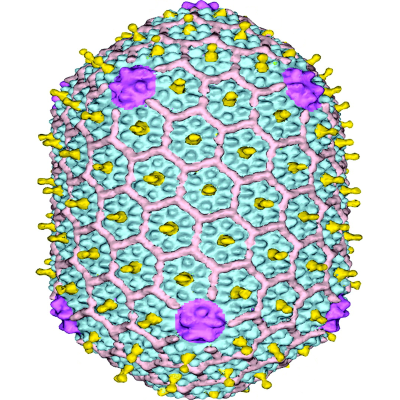
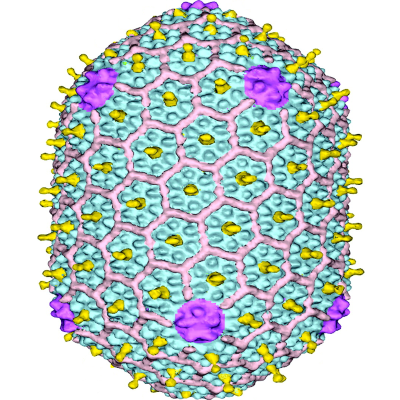
irreg quaternions corrected

diff --git a/Data/youtube story.js b/Data/youtube story.js
@@ -20,39 +20,42 @@ function Update_story()
 {
 //	console.log( our_CurrentTime );
 	
+	//if you skip to a time, then the thing might not be in the state to demonstrate precisely what you want. And that is ok.
+	
 	if(our_CurrentTime >= 21*60+14)
 		if( !EndingMusic.isPlaying)
 			EndingMusic.play();
 	
-	//first part of this function is all based on current state, which you don't have at the very start
-	if(Storypage !== -1)
+	if(Storypage !== -1) //first part of this function is all based on current state, which you don't have at the very start
 	{
+		if( Story_states[Storypage].enforced_irreg_quaternion.x !== 5 && IrregButton.capsidopen === 0 ) //we want you either going towards closed or closed
+		{
+			//we want the user to
+			var flat_quat = new THREE.Quaternion();
+			THREE.Quaternion.slerp( Story_states[Storypage].enforced_irreg_quaternion, flat_quat, varyingsurface.quaternion, capsidopenness );
+			for( var i = 0; i < varyingsurface_cylinders.length; i++)
+				varyingsurface_cylinders[i].quaternion.copy(varyingsurface.quaternion);
+			for( var i = 0; i < varyingsurface_spheres.length; i++)
+				varyingsurface_spheres[i].quaternion.copy(varyingsurface.quaternion);
+			
+			if(capsidopenness === 0) //if you've done your job in this situation, we don't need you anymore.
+				Story_states[Storypage].enforced_irreg_quaternion.set(5,5,5,5);
+			
+			varyingsurface.updateMatrixWorld();
+			
+			//still have problems: the jerk into place of the initial thing, the fact that it doesn't seem to work for phi29
+		}
+		
+		
 		if( Story_states[Storypage].prevent_playing )
 			if(ytplayer.getPlayerState() === 1)// 1 means playing,not allowed (although maybe some people like to have order designated for them?)
 				ytplayer.pauseVideo();
 		
 		if( Story_states[Storypage].unpause_on_vertex_knowledge && theyknowyoucanchangevertices && !isMouseDown )
 			IrregButton.capsidopen = 0;
+		
 		if( Story_states[Storypage].unpause_on_vertex_knowledge && capsidopenness === 0 )
-		{
 			ytplayer.playVideo();
-			console.log("unpausing on vertex knowledge");
-		}
-		
-		for(var i = 0; i < wedges.length; i++)
-			wedges[i].visible = Story_states[Storypage].wedges_visible;
-		
-		if(Story_states[Storypage].close_up_badly)
-			minimum_angle_crapifier = 0.965;
-		else
-			minimum_angle_crapifier = 1;
-		
-		if( Story_states[Storypage].CK_scale !== 666 )
-		{
-			//what if they get it before you've paused?
-			LatticeScale = Story_states[Storypage].CK_scale;
-			ytplayer.playVideo();
-		}
 		
 		if( Story_states[Storypage].unpause_on_rotation_knowledge && rotation_understanding >= 2 && !isMouseDown )
 		{
@@ -119,7 +122,20 @@ function Update_story()
 			console.error("no story state found for current time, which is ", our_CurrentTime)
 	}
 	
+	//everything below here only happens once, at the start of the chapter.
+	
 	surface.material.color.copy( Story_states[i].CK_surface_color );
+	
+	if( Story_states[Storypage].CK_scale !== 666 )
+		LatticeScale = Story_states[Storypage].CK_scale;
+	
+	if(Story_states[Storypage].close_up_badly)
+		minimum_angle_crapifier = 0.965;
+	else
+		minimum_angle_crapifier = 1;
+	
+	for(var i = 0; i < wedges.length; i++)
+		wedges[i].visible = Story_states[Storypage].wedges_visible;
 	
 	if( Story_states[Storypage].enforced_CK_quaternion.x !== 5 )
 	{
@@ -221,6 +237,7 @@ function init_story()
 		enforced_irreg_state: -1,
 		
 		enforced_CK_quaternion: new THREE.Quaternion(5,5,5,5),
+		enforced_irreg_quaternion: new THREE.Quaternion(5,5,5,5),
 		
 		CK_surface_color: new THREE.Color( 0.11764705882352941, 0.9882352941176471, 0.9529411764705882 ),
 		pentamers_color: new THREE.Color( 147/255,0,8/255 ),
@@ -469,16 +486,23 @@ function init_story()
 	
 	ns = default_clone_story_state(0,585.3); //open irreg then (pause)
 	ns.irreg_open = 1;
+	ns.enforced_irreg_quaternion.set( -0.7096985308398929, 0.0742111650138679, 0.07616885252857324, 0.6964330580574571 );
+	Story_states.push(ns);
+	
+	ns = default_clone_story_state(0,586); //this is here so we can enforce quaternion during wrap-up during pause
 	ns.pause_at_end = 1;
 	ns.unpause_on_vertex_knowledge = 1;
+	ns.enforced_irreg_quaternion.set( -0.7096985308398929, 0.0742111650138679, 0.07616885252857324, 0.6964330580574571 );
 	Story_states.push(ns);
 	
 	ns = default_clone_story_state(0,590.2); //advice which we skip for now TODO
 	ns.go_to_time = 596 + 0.0001;
 	ns.pause_at_end = 1;
+	ns.enforced_irreg_quaternion.set( -0.7096985308398929, 0.0742111650138679, 0.07616885252857324, 0.6964330580574571 );
 	Story_states.push(ns);
 	
 	ns = default_clone_story_state(0,596); //And we have a new shape!
+	ns.enforced_irreg_quaternion.set( -0.7096985308398929, 0.0742111650138679, 0.07616885252857324, 0.6964330580574571 );
 	Story_states.push(ns);
 	
 	ns = default_clone_story_state(0,600.9); //button appears
@@ -495,17 +519,22 @@ function init_story()
 	ns = default_clone_story_state(1,617.9); //very small (cone shaped hiv)
 	Story_states.push(ns);
 	
-	ns = default_clone_story_state(0,622.1); //hiv in model
+	ns = default_clone_story_state(0,622.1); //back to model
 	ns.irreg_button_invisible = 1;
-	ns.enforced_irreg_state = 2;
+	ns.enforced_irreg_state = 3;
 	ns.irreg_open = 1;
 	ns.MODE = IRREGULAR_MODE;
 	Story_states.push(ns);
 	
-	ns = default_clone_story_state(0,630.8); //HIV wraps up
-	ns.irreg_open = 0;
+	ns = default_clone_story_state(0,626.9); //hiv in model
+	ns.enforced_irreg_state = 2;
 	Story_states.push(ns);
 	
+	ns = default_clone_story_state(0,630.8); //HIV wraps up
+	ns.irreg_open = 0;
+	ns.enforced_irreg_quaternion.set( 0.2883296622430378,0.5933277134685048,0.7161749190910397,-0.22786337334508228 );
+	Story_states.push(ns);
+
 	ns = default_clone_story_state(0,642.1); //other modellers might want to make these
 	ns.slide_number = different_HIVs_index;
 	ns.irreg_button_invisible = 0;
@@ -528,6 +557,7 @@ function init_story()
 	
 	ns = default_clone_story_state(0,664); //show the representation
 	ns.enforced_irreg_state = 1;
+	ns.enforced_irreg_quaternion.set( -0.6708576855670457,0.08188608649696437,0.0028127601848788432,0.7370459427973053 ); 
 	ns.irreg_open = 0; 
 	Story_states.push(ns);
 	
@@ -548,11 +578,17 @@ function init_story()
 	ns = default_clone_story_state(1,693); //T4
 	Story_states.push(ns);
 	
-	ns = default_clone_story_state(0,695); //T4 in model. Want it oriented too really
+	ns = default_clone_story_state(0,695); //T4 in model
+	ns.enforced_irreg_quaternion.set( -0.5216554828631857,-0.40506237503583453,-0.44657300762976543,0.603632817711505 );
 	ns.enforced_irreg_state = 0;
 	ns.irreg_open = 0;
+	Story_states.push(ns);
+	
+	ns = default_clone_story_state(0,699.8); //open up
+	ns.irreg_open = 1;
 	ns.pause_at_end = 1;
 	Story_states.push(ns);
+	
 	
 	ns = default_clone_story_state(0,701.8); //story begins
 	ns.irreg_button_invisible = 1;
@@ -563,10 +599,11 @@ function init_story()
 	ns.irreg_open = 1;
 	Story_states.push(ns);
 	
-	//move corner around, close up badly
+	//move corner around
 
 	ns = default_clone_story_state(0,715.6); //bad angles, close
 	ns.close_up_badly = 1;
+	ns.enforced_irreg_quaternion.set( -0.5839517316049366,0.5941792835098294,0.12788438772275565,0.5381421164961689 );
 	ns.irreg_open = 0;
 	Story_states.push(ns);
 	
@@ -884,6 +921,7 @@ function default_clone_story_state( shows_a_slide, ST )
 	new_story_state.enforced_irreg_state = -1;
 	
 	new_story_state.enforced_CK_quaternion = new THREE.Quaternion(5,5,5,5);
+	new_story_state.enforced_irreg_quaternion = new THREE.Quaternion(5,5,5,5);
 	
 	new_story_state.startingtime = ST;
 	

diff --git a/Misc_CoreLoop.js b/Misc_CoreLoop.js
@@ -5,32 +5,16 @@
  * Lots of TODOs in story
  * irreg doesn't have to go all the way to the state you want it in
  * 
- * Hopefully can get pictures and pauses in vdub too
- * You're going to get a video on left and on right, both 428x428, giving 480p
- * For each pair of clips, put their AVS into virtualdub; the last frame of the shorter one will pause 
- * then that into vdub to get white bars on top
- * Then import them into WMM for the fades
- * 
- * "what's happenning here is that polio's proteins..."
- * "We can see polio's pattern as one part of a larger pattern" 
- * 
- * Fade between all of these; they're all said while noodling around:
- * "This is bocavirus, and I invite you to reach out and rotate it for yourself"
- * CK "there are thousands and thousands [...] to see the results"
- * CK "if you feel like challenging yourself, here's a virus to try constructing" [while you press the button to open and close it]
- * QS "This model was discovered only very recently, but..." [and have the dome]
- * Irreg "In fact we have found out that HIV CHANGES its shape... we have this" [the button is on the screen] you rotate it a bit and then open. Fade.
- * Irreg [with pics on your side of the video] "Here's another very symmetrical virus, and if we emphasize its corners then we get this shape for it, and this is something that can be made in the model"
  * 
  * irreg limits? That is a major barrier to game-like enjoyment
- * Test
- * The wedges follow to
+ * cuts flash
  * The tree? Certainly, all the chapter selects must work
  * Make use of the "now you can choose the next virus" clip
  * Pentagons in your hexagon demo?
  * Integrate the hexagon demo
  * Fading pics. Probably the thing to do is to specify actual chapters that consist of a fade?
  * re-orient closed-up HIV
+ * Test
  * 	
  * Long term To Do
  *  -break up all the chapters into separate videos
